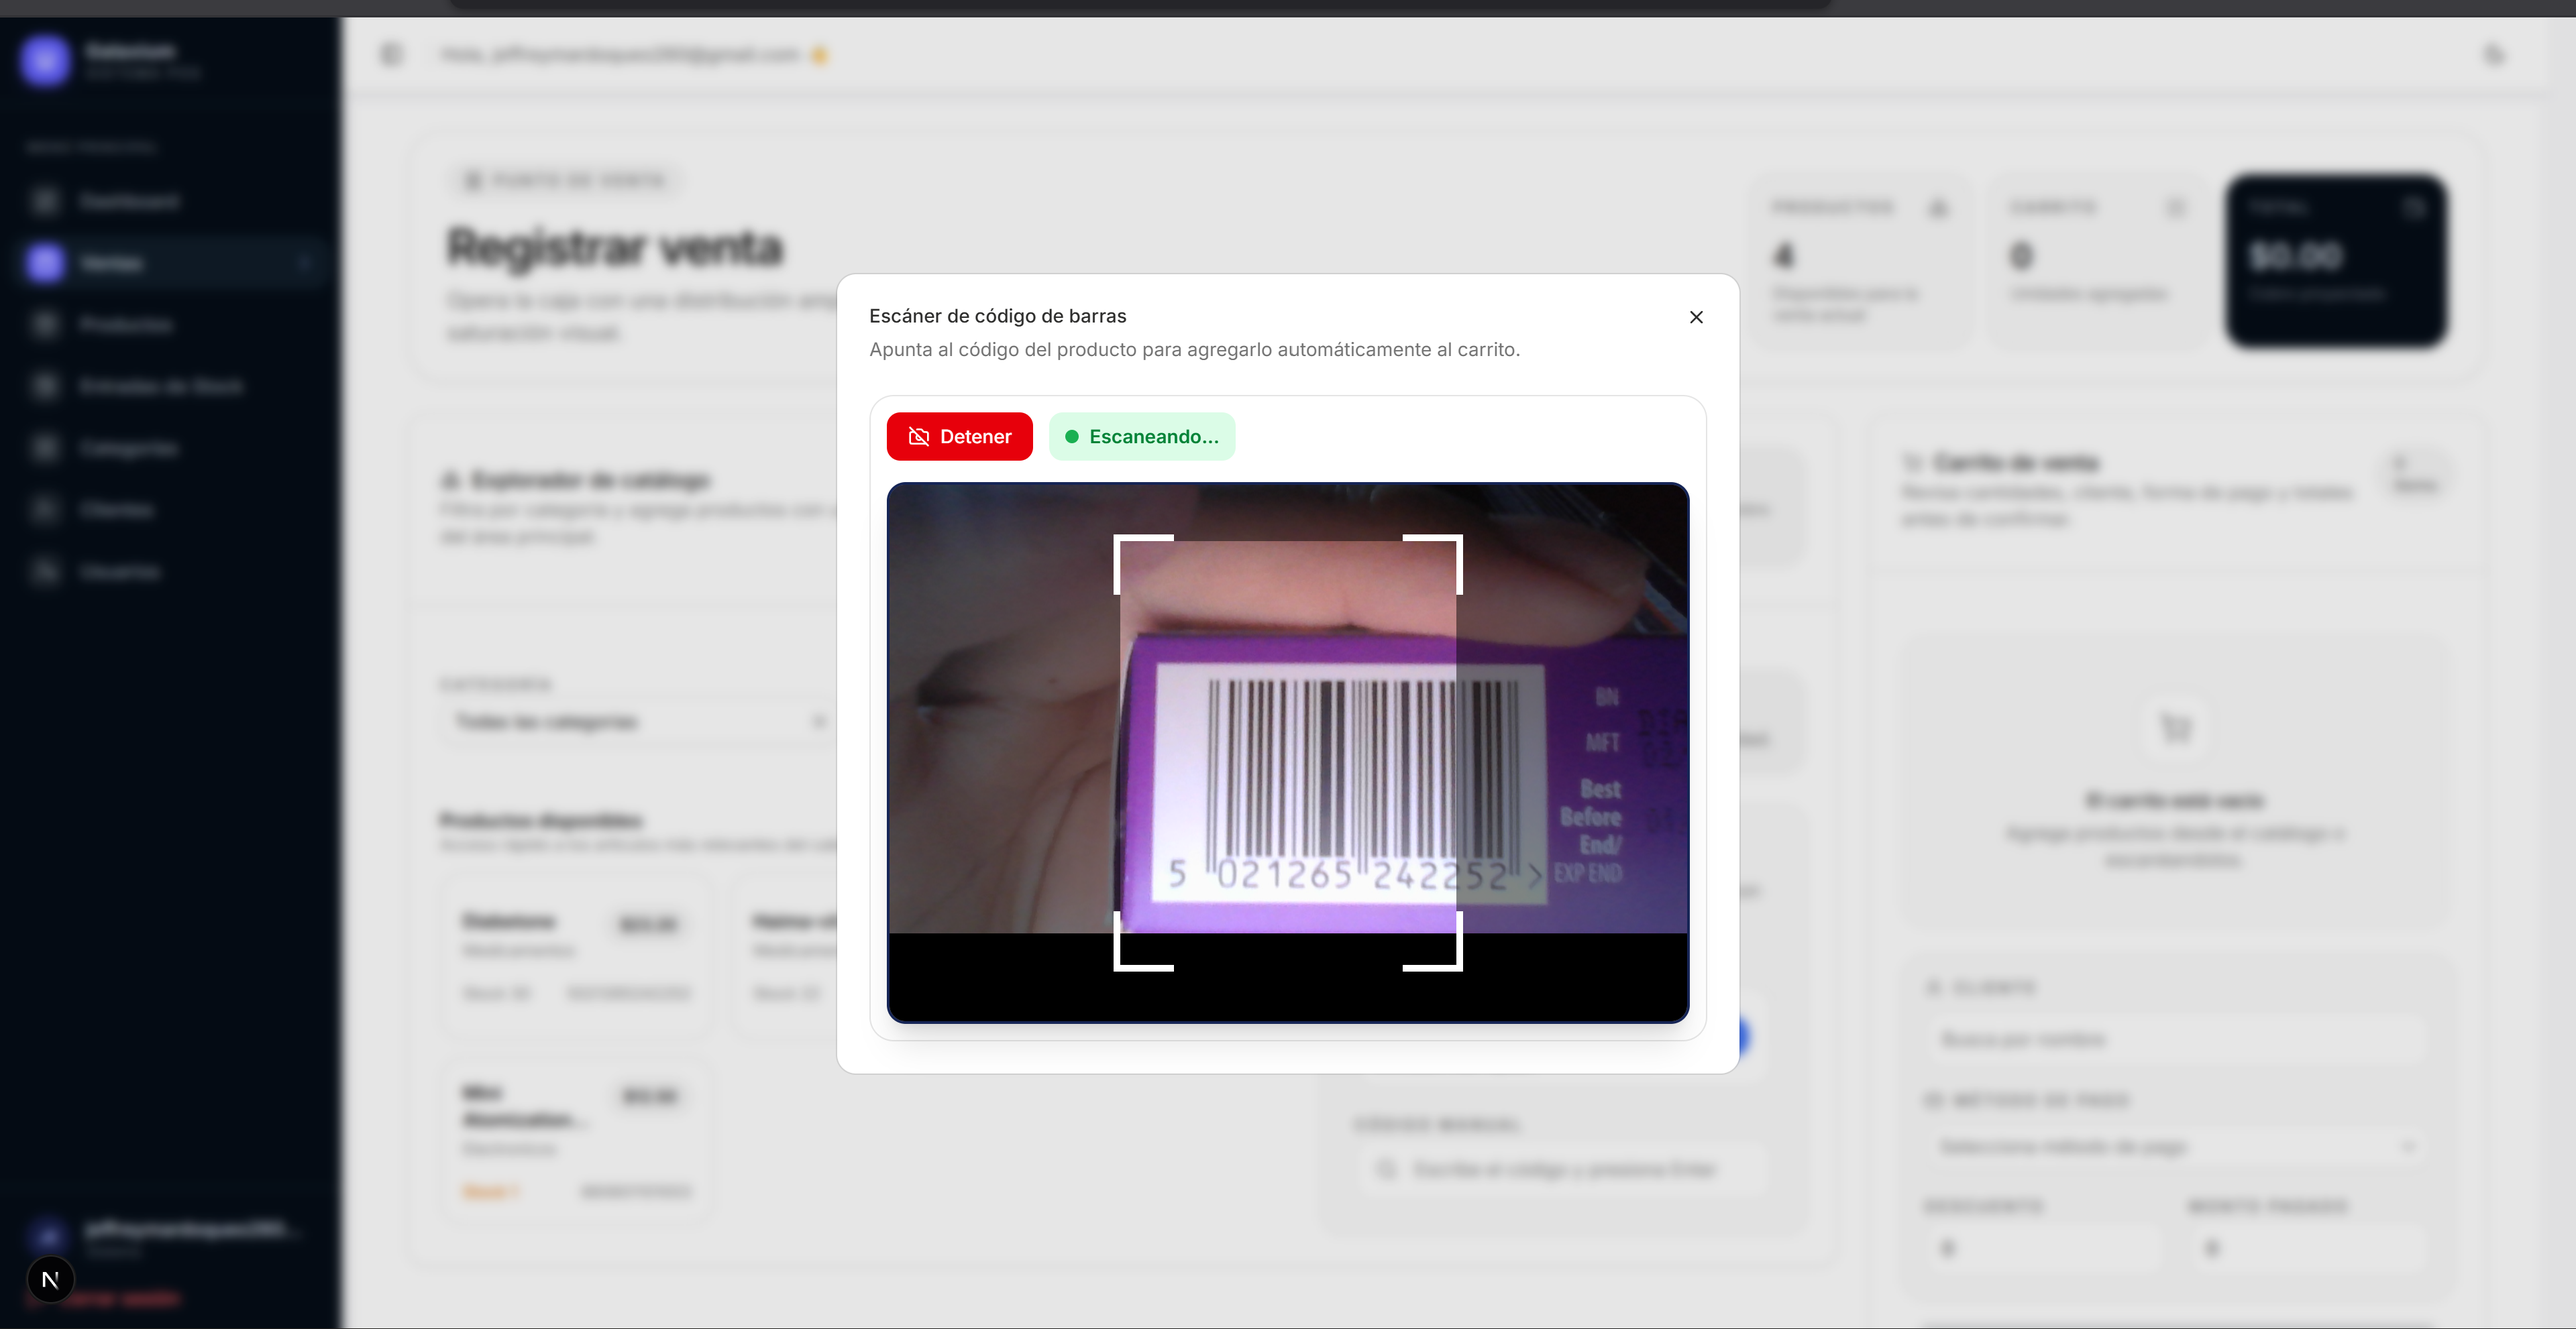
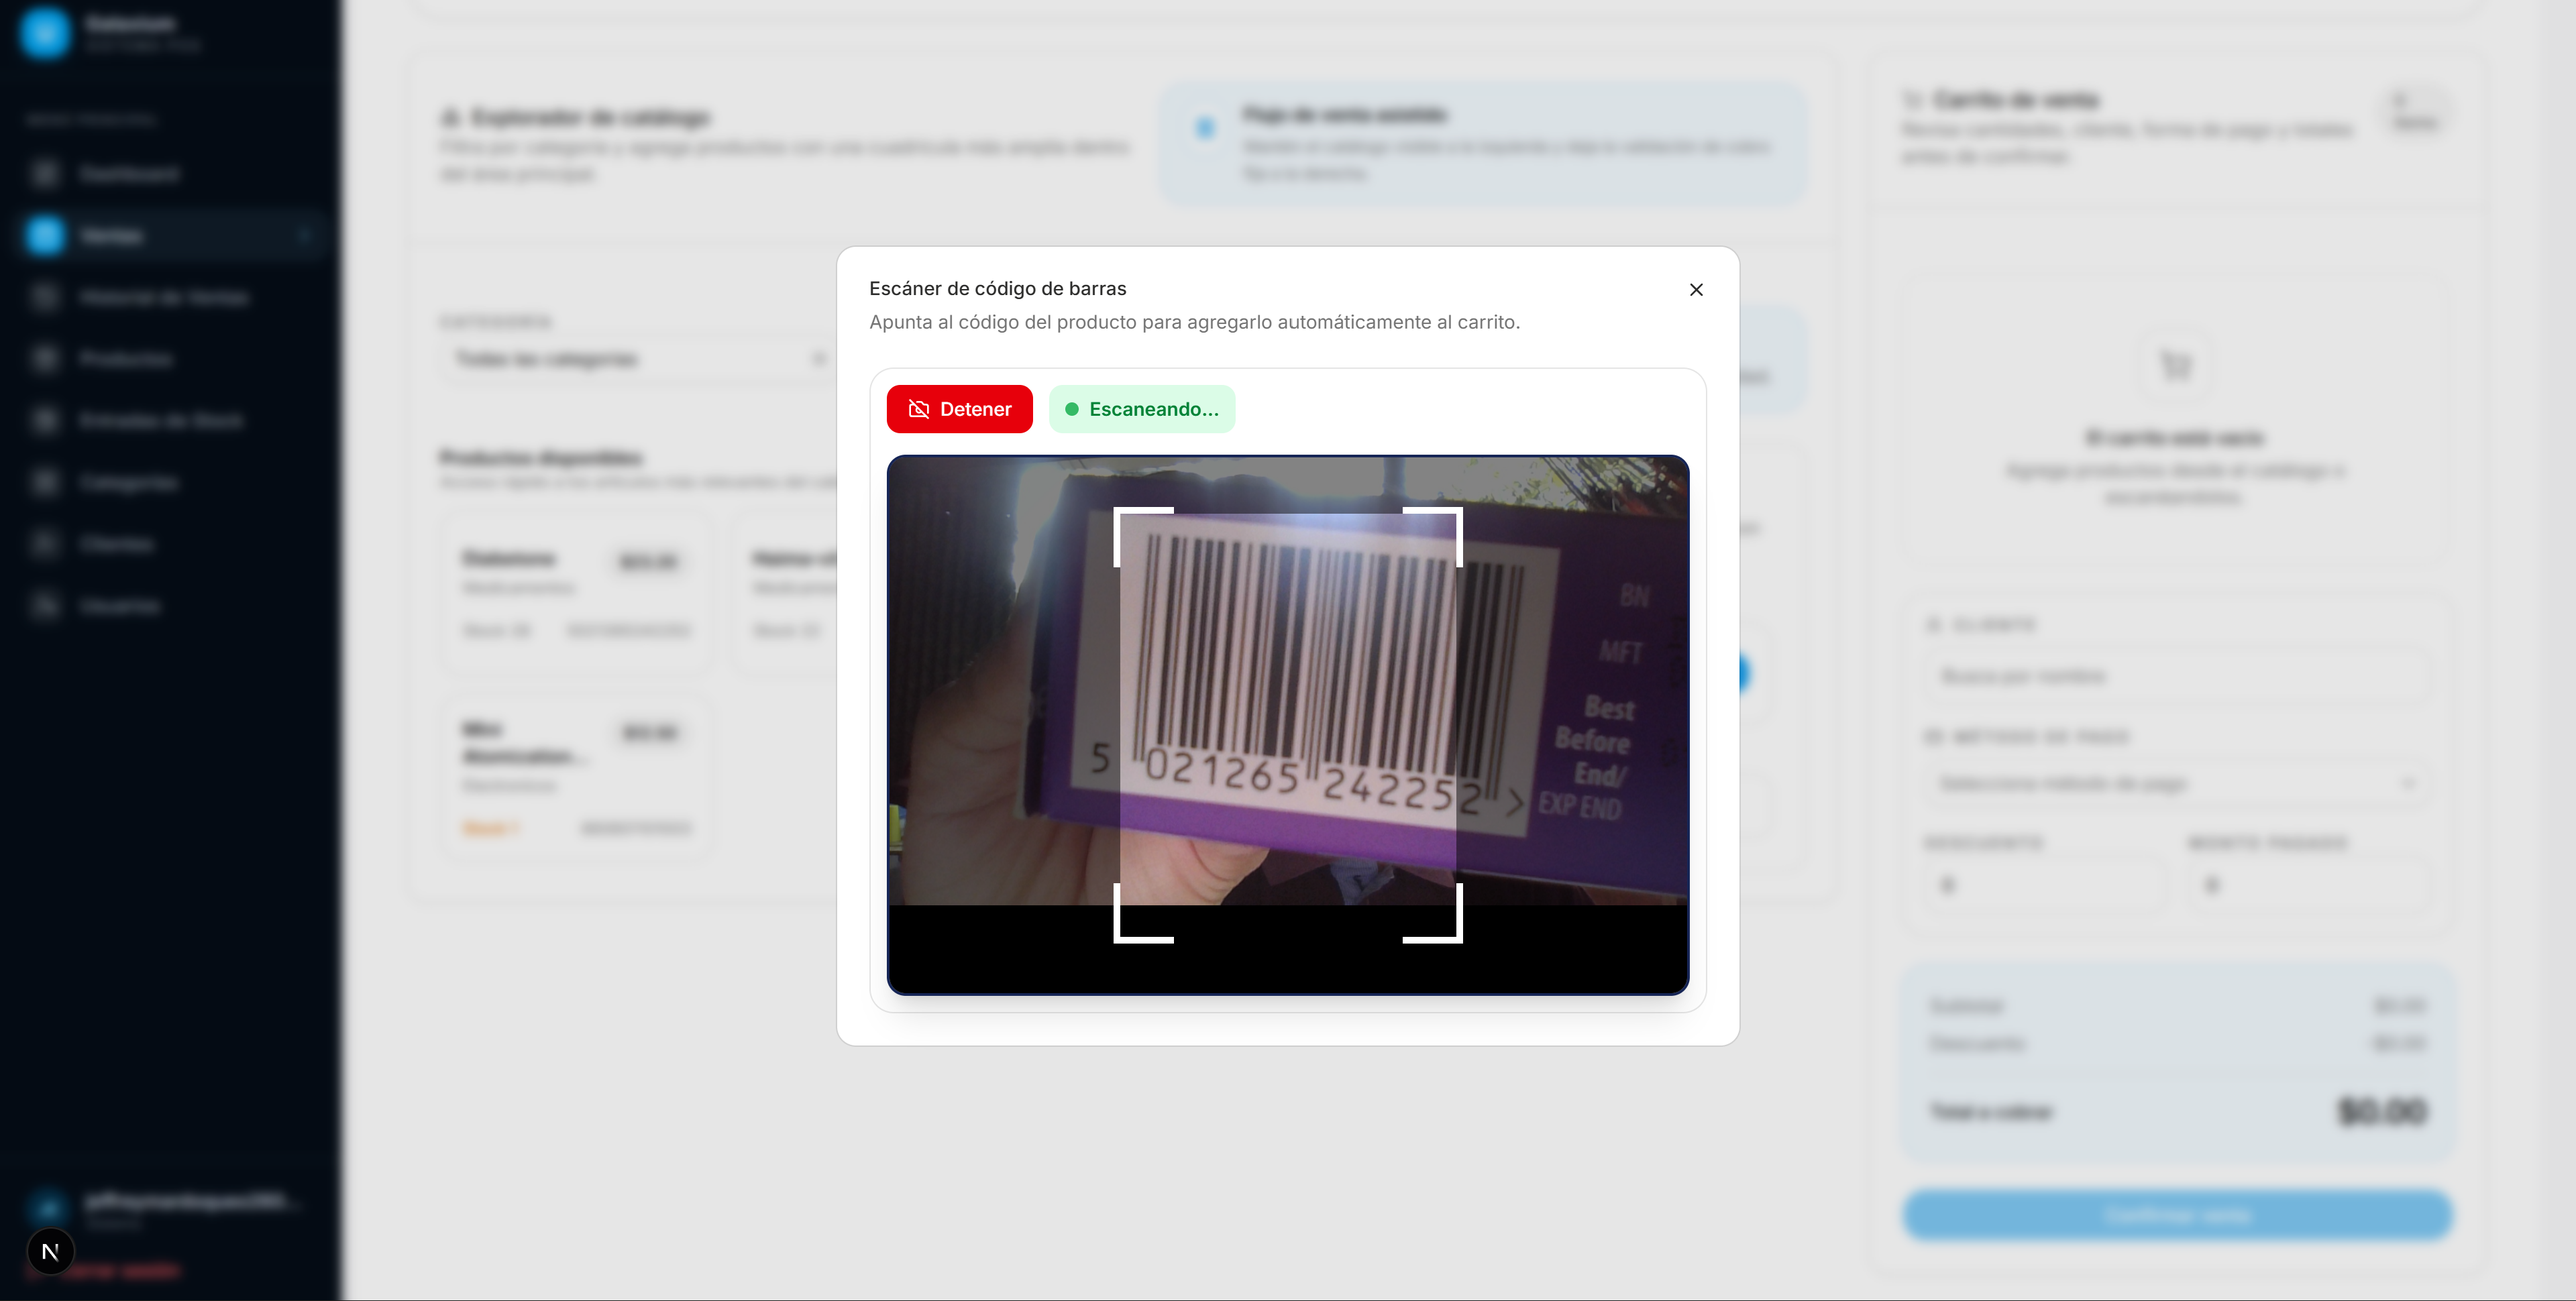
Update galaxium

diff --git a/src/components/Portafolio/Portafolio.jsx b/src/components/Portafolio/Portafolio.jsx
@@ -3,12 +3,12 @@ import Tarjeta from "../tarjeta/tarjeta";
 
 // Array de proyectos
 const proyectos = [
-  
-   {
+
+  {
     nombre: "Clynic - Sistema de control de citas para clinicas",
     descripcion:
       "Clynic System, una plataforma para la operacion de clinicas privadas. Este proyecto cubre la experiencia publica de captacion y agendamiento, el acceso autenticado del personal y los paneles operativos para administracion, recepcion y doctores.",
-    tecnologias: ["NextJs", "Typescript", "Tailwindcss", "shadcn", "SQL server", "Entity Framework", "C#", ".NET" , "Docker y docker compose"],
+    tecnologias: ["NextJs", "Typescript", "Tailwindcss", "shadcn", "SQL server", "Entity Framework", "C#", ".NET", "Docker y docker compose"],
     imagenes: [
       "../../../imgs/Clynic/Dashboard_resepcion.png",
       "../../../imgs/Clynic/Dashboard_Adminstracion.png",
@@ -17,27 +17,29 @@ const proyectos = [
       "../../../imgs/Clynic/Panel_doctor.png",
       "../../../imgs/Clynic/Vistas_Sucursales.png",
       "../../../imgs/Clynic/Vista_appointment.png",
-     ],
-    
+    ],
+
     link: "https://clynic-sys.vercel.app/",
   },
   {
     nombre: "Galaxium - Control de inventario y ventas",
     descripcion:
       "Este proyecto es un sistema ERP de inventario diseñado para gestionar de forma centralizada las entradas y salidas de productos en un negocio. Permite controlar el stock en tiempo real, registrar compras/ingresos de mercancía, ventas o despachos, y llevar trazabilidad de movimientos para tomar mejores decisiones. Además, integra módulos clave como productos, categorías, clientes, ventas, métodos de pago y dashboard, facilitando la operación diaria y reduciendo errores en el control del inventario.",
-    tecnologias: ["NextJs", "Typescript", "Tailwindcss", "shadcn", "SQL server", "Entity Framework", "C#", ".NET" ],
+    tecnologias: ["NextJs", "Typescript", "Tailwindcss", "shadcn", "SQL server", "Entity Framework", "C#", ".NET"],
     imagenes: [
-      "../../../imgs/Galaxium/dashboard.png",
+      "../../../imgs/Galaxium/Dashboard.png",
+      "../../../imgs/Galaxium/venta.png",
       "../../../imgs/Galaxium/cliente.png",
-      "../../../imgs/Galaxium/NewProducts.png",
-      "../../../imgs/Galaxium/NewStock.png",
-      "../../../imgs/Galaxium/Scaner.png",
-      "../../../imgs/Galaxium/Venta.png",
-     ],
-    
+      "../../../imgs/Galaxium/addProducts.png",
+      "../../../imgs/Galaxium/products.png",
+      "../../../imgs/Galaxium/scaner.png",
+      "../../../imgs/Galaxium/stockEntry.png",
+      "../../../imgs/Galaxium/histosy.png",
+    ],
+
     link: "https://clynic-sys.vercel.app/",
   },
- 
+
   {
     nombre: "Sistema de Control de Pagos - Frontend",
     descripcion:
@@ -58,7 +60,7 @@ const proyectos = [
     nombre: "Sistema de Control de Pagos - Backend",
     descripcion:
       "API RESTful del Sistema de Control de Pagos, desarrollada con Node.js, Express y SQL Server para administrar datos de pagos de manera eficiente.",
-    tecnologias: ["Node.js", "Express", "PostgreSQL", ],
+    tecnologias: ["Node.js", "Express", "PostgreSQL",],
     imagenes: [
       "../../../imgs/BackendREAL.jpg"
     ],
@@ -71,7 +73,7 @@ const proyectos = [
     imagenes: ["../../../imgs/kodigomiusic.png"],
     link: "https://kodigo-music-rho.vercel.app/",
   },
-  
+
   {
     nombre: "Consumo de Api atmo-weather",
     descripcion:
@@ -128,7 +130,7 @@ const Portafolio = () => {
         Proyectos
       </h2>
 
-    
+
       <div className="grid grid-cols-1 sm:grid-cols-2 lg:grid-cols-3 gap-10">
         {proyectos.map((proyecto, index) => (
           <Tarjeta
